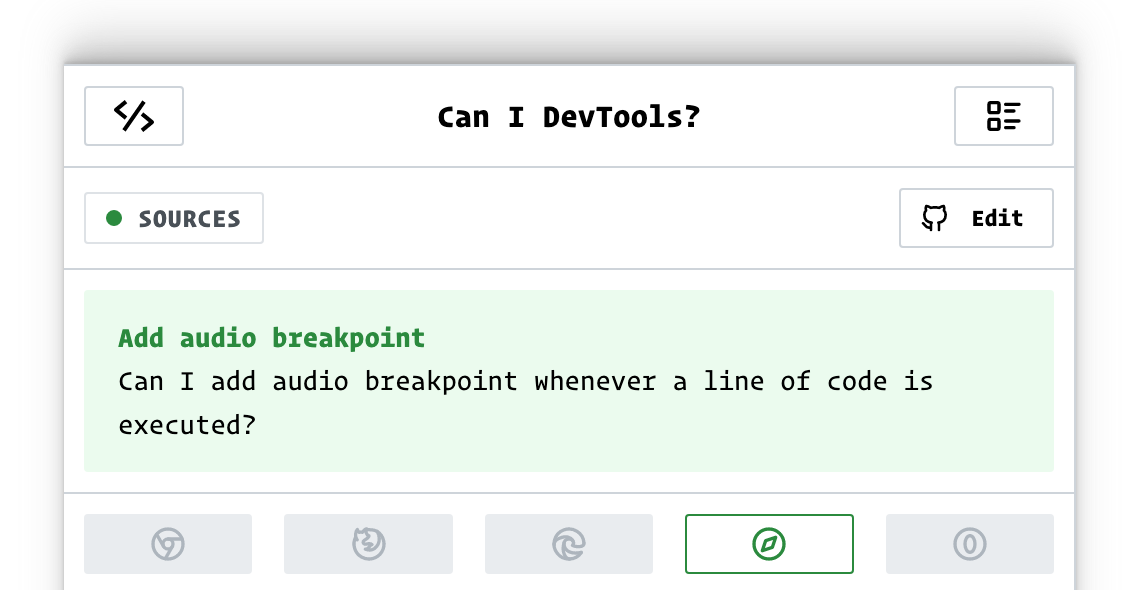
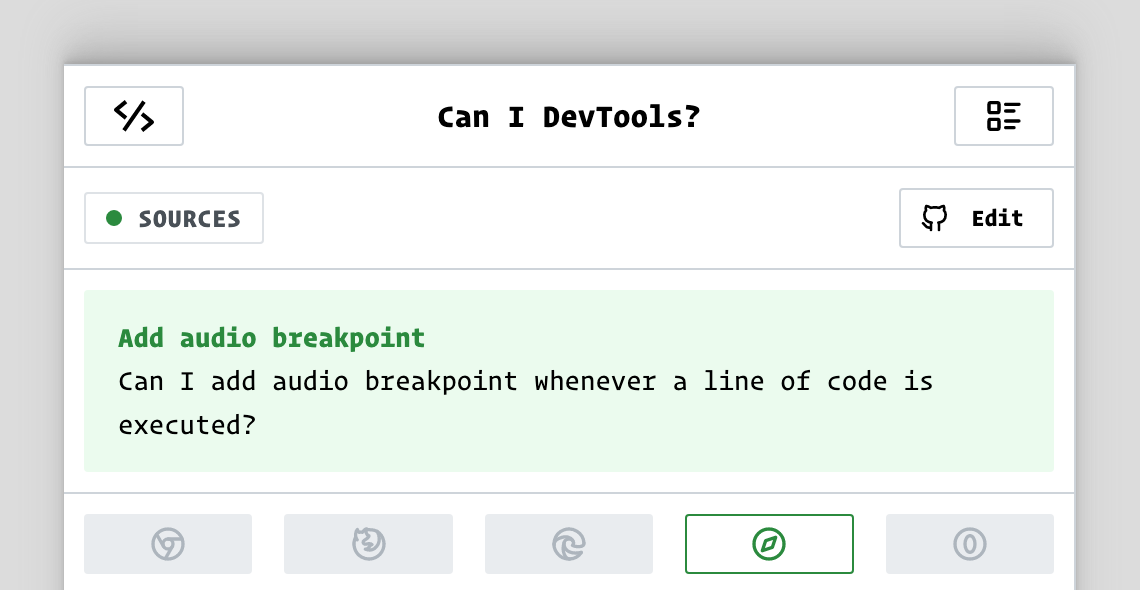
updated social image

Changed region(s): [[0.0, 0.0, 1.0, 1.0]]

diff --git a/README.md b/README.md
@@ -1,4 +1,4 @@
-![image](https://canidev.tools/social-image.png) 
+![image](https://canidev.tools/social-image.jpg) 
 
 ## 1. Add audio breakpoint 
  Can I add audio breakpoint whenever a line of code is executed? 
